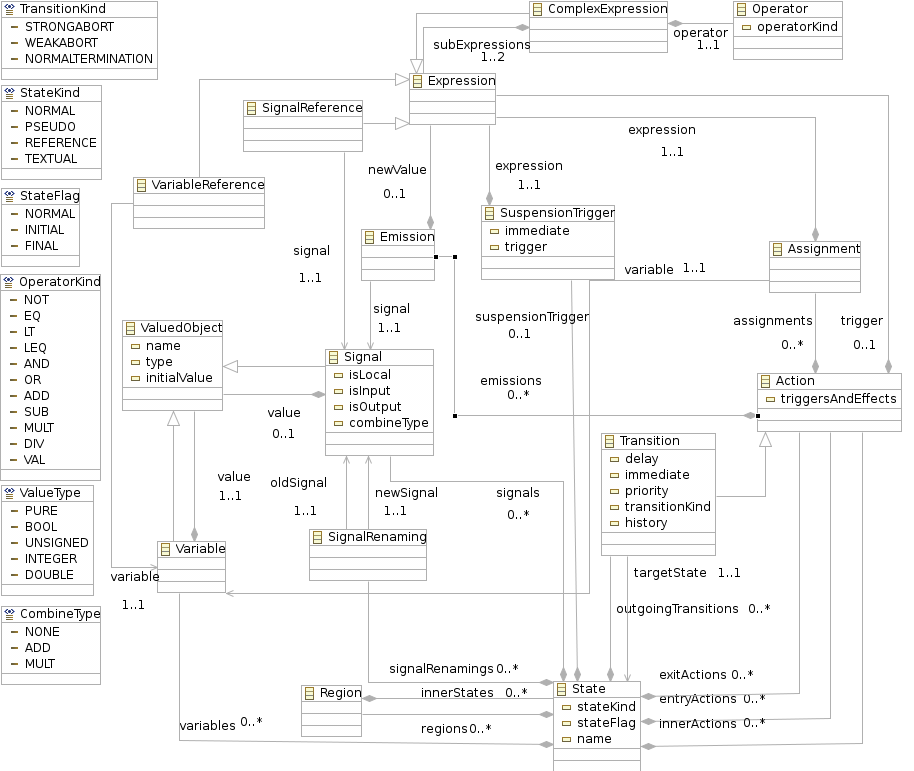
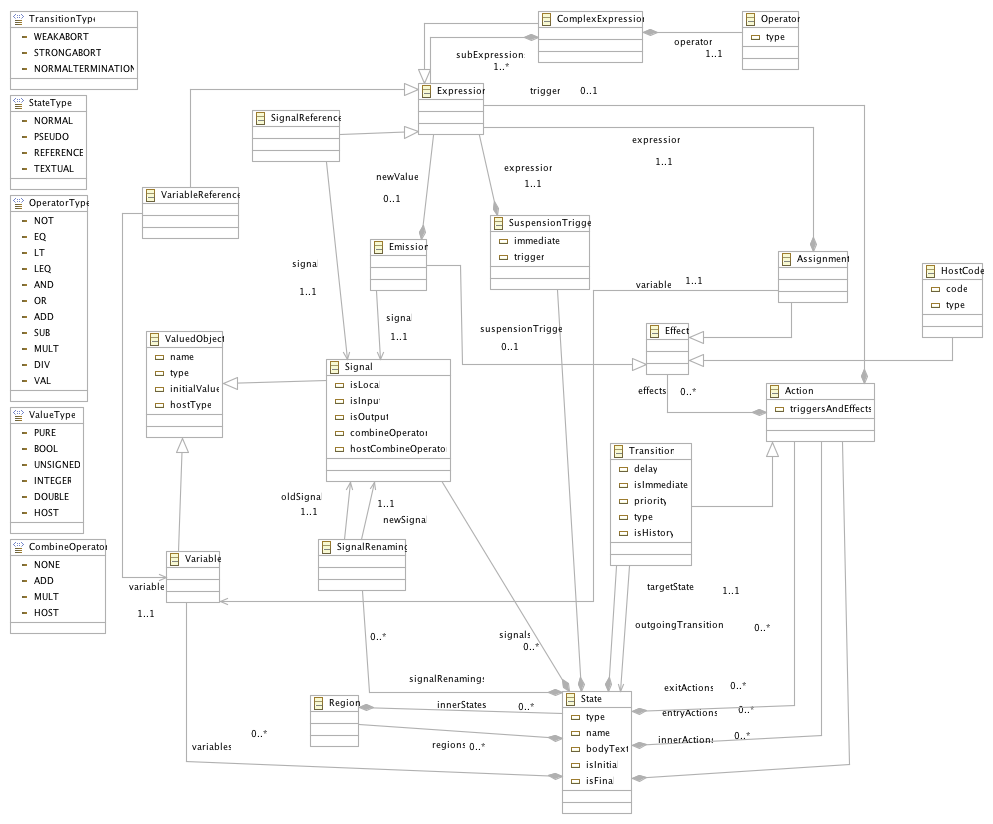
Updated the synccharts metamodel according to our review

diff --git a/plugins/de.cau.cs.kieler.synccharts.custom/src/de/cau/cs/kieler/synccharts/custom/AttributeAwareStateFigure.java b/plugins/de.cau.cs.kieler.synccharts.custom/src/de/cau/cs/kieler/synccharts/custom/AttributeAwareStateFigure.java
@@ -13,10 +13,9 @@ import org.eclipse.gef.EditPart;
 import org.eclipse.gmf.runtime.diagram.ui.figures.ShapeCompartmentFigure;
 import org.eclipse.gmf.runtime.draw2d.ui.figures.WrappingLabel;
 
+import de.cau.cs.kieler.synccharts.StateType;
 import de.cau.cs.kieler.synccharts.SyncchartsPackage;
 import de.cau.cs.kieler.synccharts.State;
-import de.cau.cs.kieler.synccharts.StateFlag;
-import de.cau.cs.kieler.synccharts.StateKind;
 
 public class AttributeAwareStateFigure extends AttributeAwareFigure {
 	
@@ -78,14 +77,14 @@ public class AttributeAwareStateFigure extends AttributeAwareFigure {
 		this.setCurrentFigure(normalNChildrenStateFigure);
 		
 		// Create all needed conditions
-		Condition kindNormal = new Condition(SyncchartsPackage.eINSTANCE.getState_StateKind(), StateKind.NORMAL);
-		Condition kindPseudo = new Condition(SyncchartsPackage.eINSTANCE.getState_StateKind(), StateKind.PSEUDO);
-		Condition kindReference = new Condition(SyncchartsPackage.eINSTANCE.getState_StateKind(), StateKind.REFERENCE);
-		Condition kindTextual = new Condition(SyncchartsPackage.eINSTANCE.getState_StateKind(), StateKind.TEXTUAL);
+		Condition kindNormal = new Condition(SyncchartsPackage.eINSTANCE.getState_Type(), StateType.NORMAL);
+		Condition kindPseudo = new Condition(SyncchartsPackage.eINSTANCE.getState_Type(), StateType.PSEUDO);
+		Condition kindReference = new Condition(SyncchartsPackage.eINSTANCE.getState_Type(), StateType.REFERENCE);
+		Condition kindTextual = new Condition(SyncchartsPackage.eINSTANCE.getState_Type(), StateType.TEXTUAL);
 		
-		Condition flagNormal = new Condition(SyncchartsPackage.eINSTANCE.getState_StateFlag(), StateFlag.NORMAL);
-		Condition flagInitial = new Condition(SyncchartsPackage.eINSTANCE.getState_StateFlag(), StateFlag.INITIAL);
-		Condition flagFinal = new Condition(SyncchartsPackage.eINSTANCE.getState_StateFlag(), StateFlag.FINAL);
+		//Condition flagNormal = new Condition(SyncchartsPackage.eINSTANCE.getState_StateFlag(), tateFlag.NORMAL);
+		Condition flagInitial = new Condition(SyncchartsPackage.eINSTANCE.getState_IsInitial(), true);
+		Condition flagFinal = new Condition(SyncchartsPackage.eINSTANCE.getState_IsFinal(), true);
 		
 		Condition noChildren = new SizeCondition(SyncchartsPackage.eINSTANCE.getState_Regions(), new Integer(0));
 		Condition noSignals = new SizeCondition(SyncchartsPackage.eINSTANCE.getState_Signals(), new Integer(0));
@@ -96,7 +95,7 @@ public class AttributeAwareStateFigure extends AttributeAwareFigure {
 		// Combine conditions in lists
 		List<Condition> normalNCSF = new LinkedList<Condition>();
 		normalNCSF.add(kindNormal);
-		normalNCSF.add(flagNormal);
+		//normalNCSF.add(flagNormal);
 		normalNCSF.add(noChildren);
 		normalNCSF.add(noSignals);
 		normalNCSF.add(noEntryActions);

diff --git a/plugins/de.cau.cs.kieler.synccharts.custom/src/de/cau/cs/kieler/synccharts/custom/AttributeAwareTransitionFigure.java b/plugins/de.cau.cs.kieler.synccharts.custom/src/de/cau/cs/kieler/synccharts/custom/AttributeAwareTransitionFigure.java
@@ -11,7 +11,7 @@ import org.eclipse.draw2d.geometry.PointList;
 import org.eclipse.gef.EditPart;
 
 import de.cau.cs.kieler.synccharts.SyncchartsPackage;
-import de.cau.cs.kieler.synccharts.TransitionKind;
+import de.cau.cs.kieler.synccharts.TransitionType;
 
 public class AttributeAwareTransitionFigure extends AttributeAwareConnection {
 
@@ -25,10 +25,10 @@ public class AttributeAwareTransitionFigure extends AttributeAwareConnection {
 		this.setLineWidth(2);
 		
 		// Create all needed conditions
-		Condition kindWeakAbort = new Condition(SyncchartsPackage.eINSTANCE.getTransition_TransitionKind(), TransitionKind.WEAKABORT);
-		Condition kindStrongAbort = new Condition(SyncchartsPackage.eINSTANCE.getTransition_TransitionKind(), TransitionKind.STRONGABORT);
-		Condition kindNormalTermination = new Condition(SyncchartsPackage.eINSTANCE.getTransition_TransitionKind(), TransitionKind.NORMALTERMINATION);
-		Condition isHistory = new Condition(SyncchartsPackage.eINSTANCE.getTransition_History(), new Boolean(true));
+		Condition kindWeakAbort = new Condition(SyncchartsPackage.eINSTANCE.getTransition_Type(), TransitionType.WEAKABORT);
+		Condition kindStrongAbort = new Condition(SyncchartsPackage.eINSTANCE.getTransition_Type(), TransitionType.STRONGABORT);
+		Condition kindNormalTermination = new Condition(SyncchartsPackage.eINSTANCE.getTransition_Type(), TransitionType.NORMALTERMINATION);
+		Condition isHistory = new Condition(SyncchartsPackage.eINSTANCE.getTransition_IsHistory(), new Boolean(true));
 		
 		// Combine them in lists
 		List<Condition> weakAbortHistorySF = new LinkedList<Condition>();

diff --git a/plugins/de.cau.cs.kieler.synccharts.custom/src/de/cau/cs/kieler/synccharts/custom/XTextParserWrapper.java b/plugins/de.cau.cs.kieler.synccharts.custom/src/de/cau/cs/kieler/synccharts/custom/XTextParserWrapper.java
@@ -84,7 +84,7 @@ public class XTextParserWrapper implements IParser {
 				// If the element is a transition, has a trigger and is immediate, add a '#' to the string
 				if (((EObjectAdapter) element).getRealObject() instanceof Transition) {
 					Transition transition = (Transition) (((EObjectAdapter) element).getRealObject());
-					if ((transition.getTrigger() != null) && (transition.isImmediate())) {
+					if ((transition.getTrigger() != null) && (transition.isIsImmediate())) {
 						immediateString = "#";
 					}
 				}
